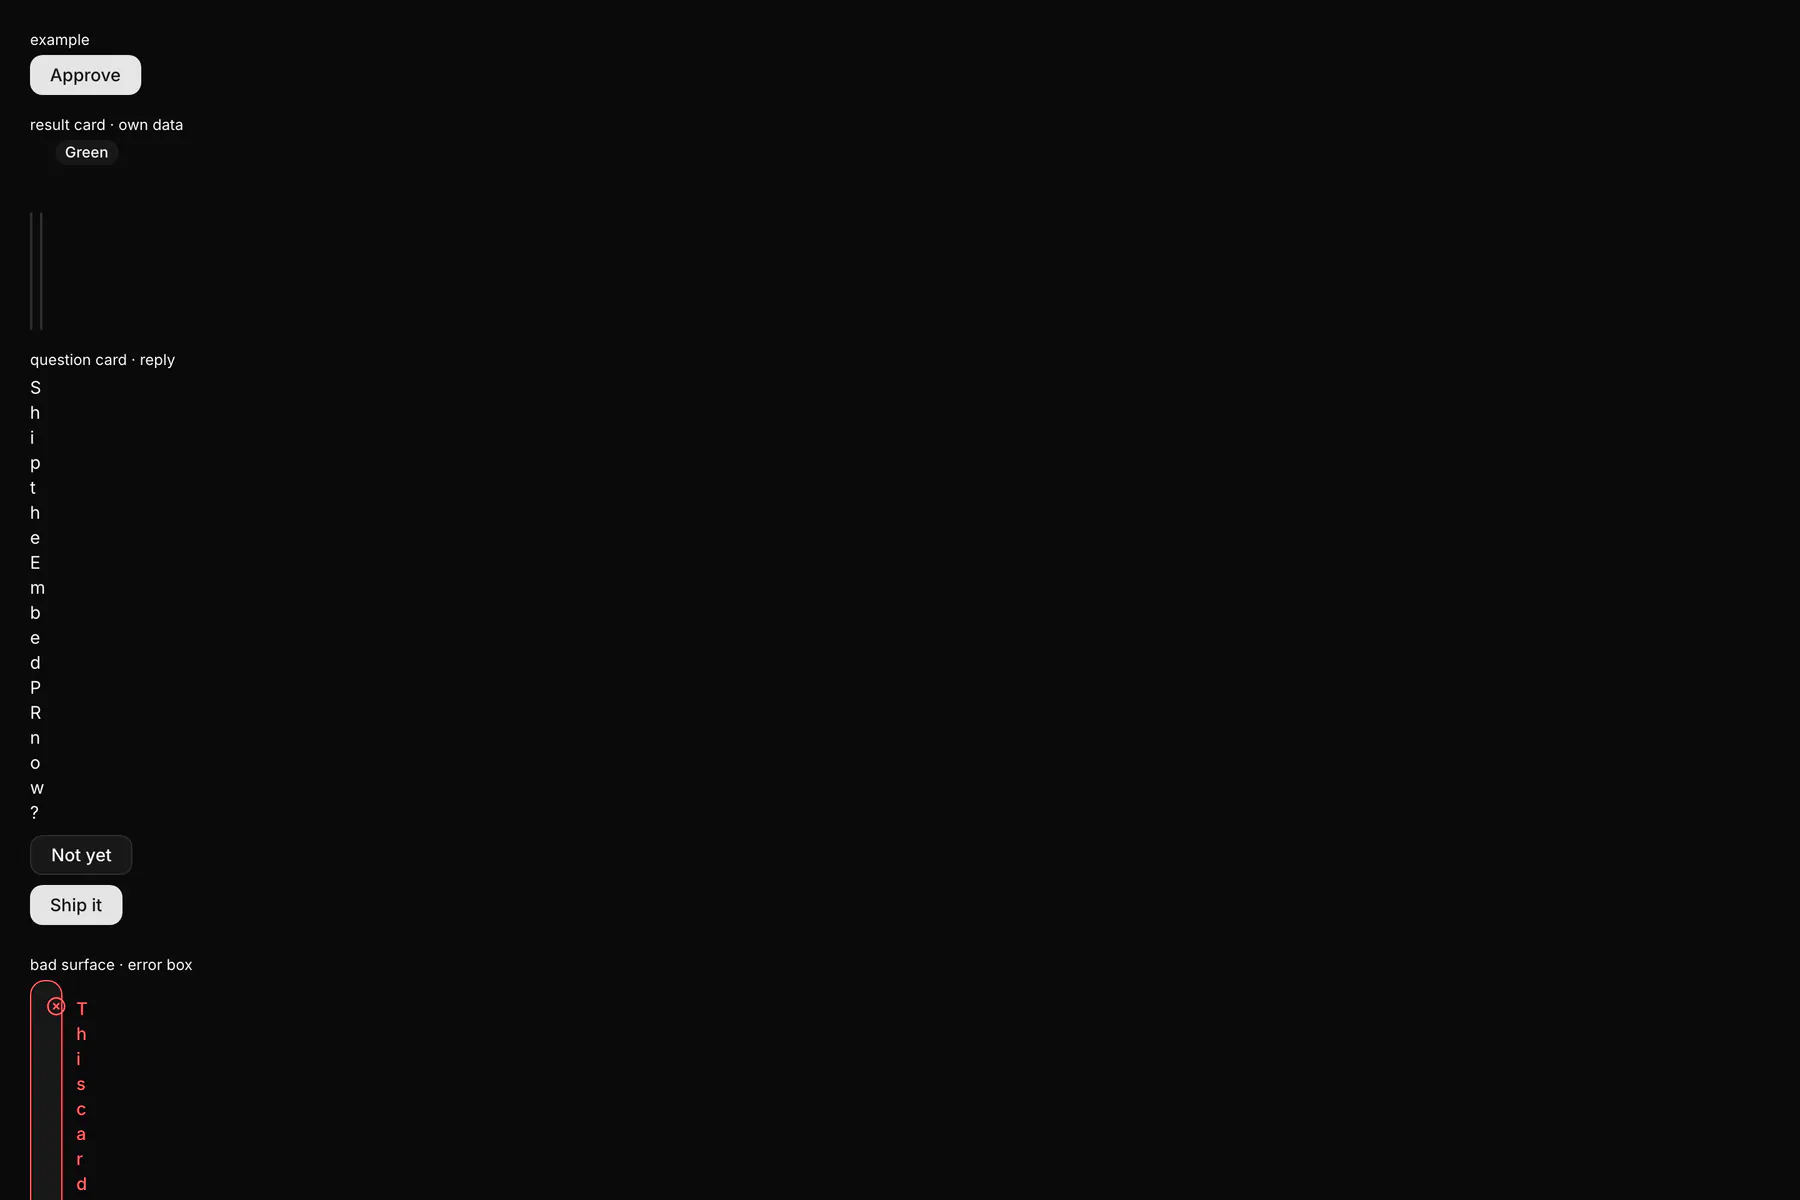
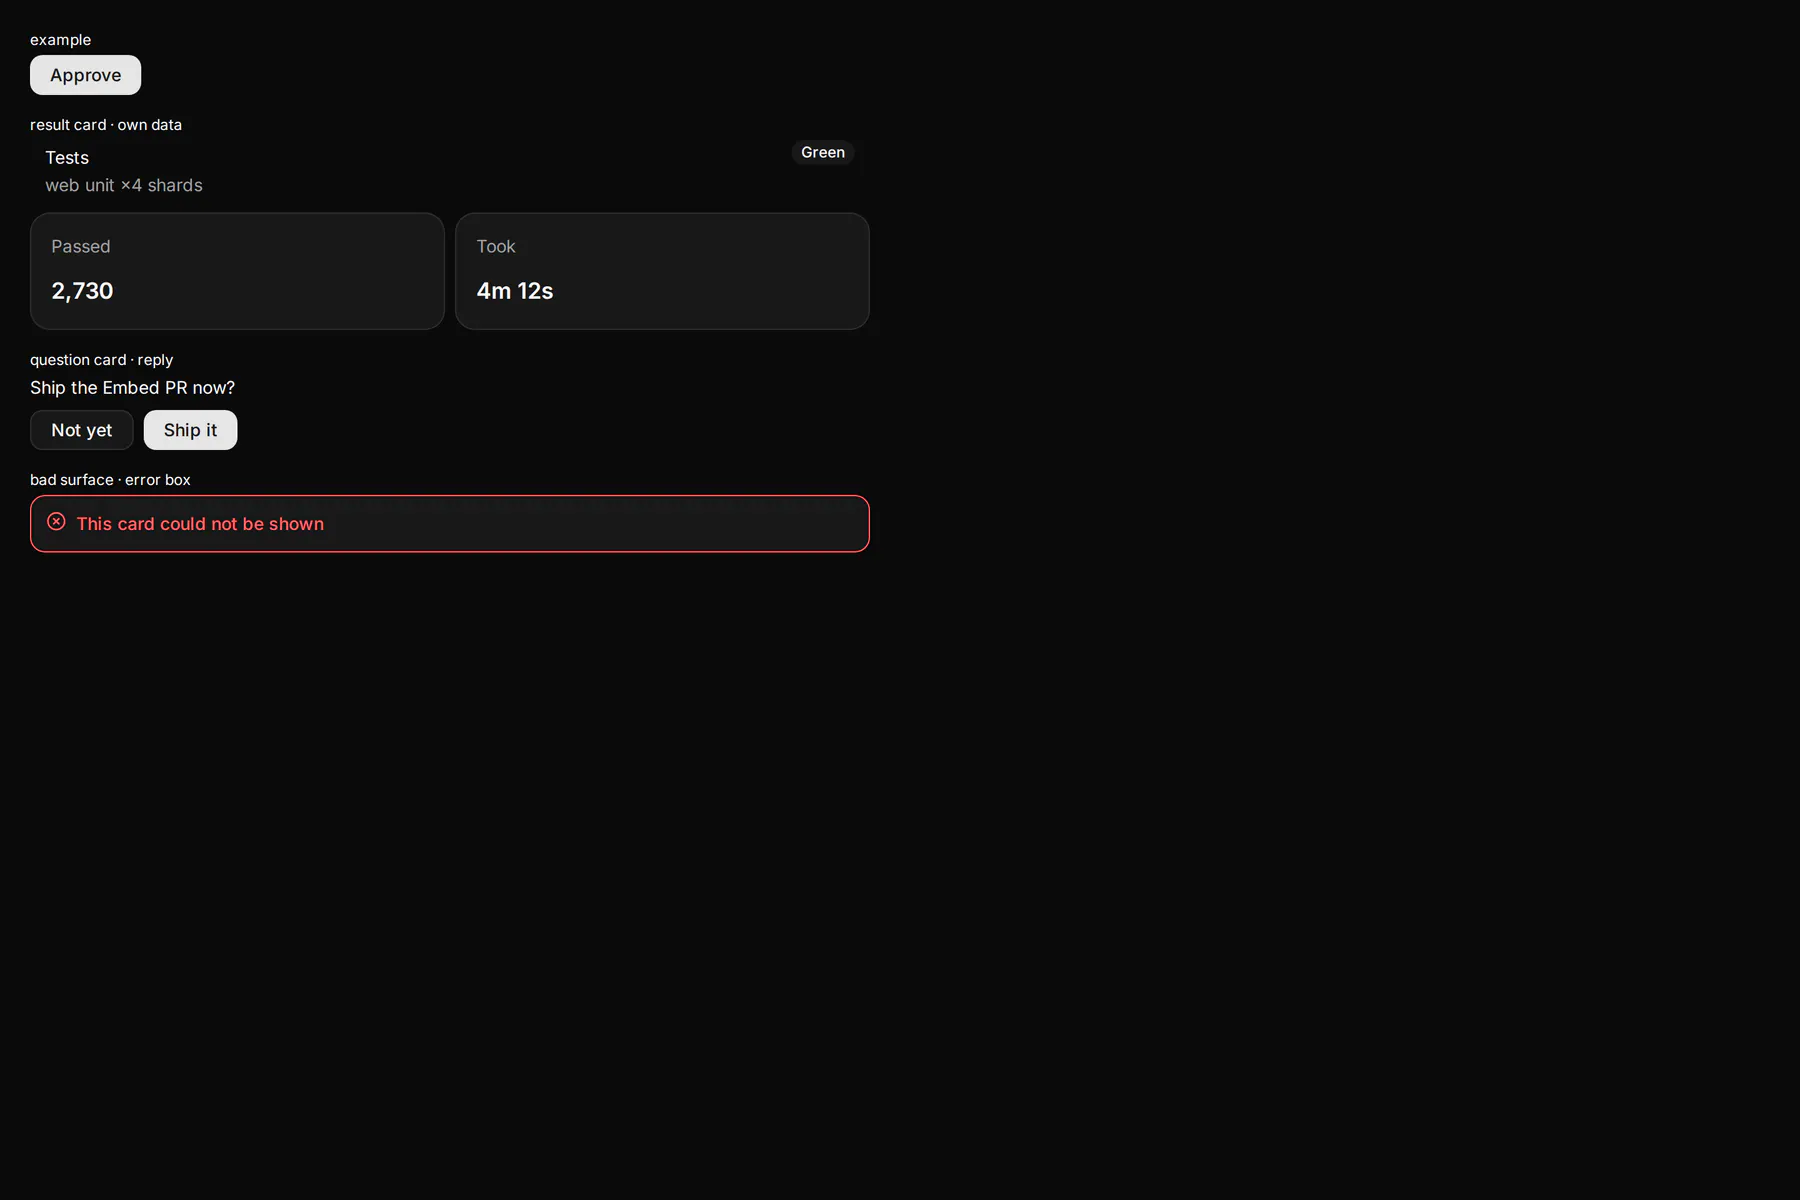
EXP-1769: genUI Embed (web): the nested surface fills the Embed instead of collapsing to 0 px
The Embed root is a row-flex .xui-el and its one child, the nested
.xui-surface, is an inline-size container with no intrinsic width, so
every card laid out at 0 px (one letter per line). base-css now lets it
fill the box (React + Solid share it). embed.json gains `layout` cases (an
Embed inside a column, aligned start, inside a Card at 390 px), replayed in
Chromium for React and Solid by exponential-ui-solid/browser/embed.test.ts.
Re-records shots/exponential-ui-embed/web.webp.

diff --git a/packages/exponential-ui-solid/browser/embed.test.ts b/packages/exponential-ui-solid/browser/embed.test.ts
@@ -1,0 +1,82 @@
+// #EXP-1769: embed.json's `layout` cases in headless Chromium, React (the
+// reference) and Solid: an Embed inside a column takes the column's width
+// and its nested surface FILLS it (the card's root spans the Embed within
+// 1 px), so its text paints on one line instead of one letter per line
+// (the row-flex Embed box around an inline-size container collapsed it to
+// 0 px).
+
+import { afterAll, beforeAll, describe, expect, it } from "vitest"
+import { join } from "node:path"
+import type { Browser } from "playwright"
+import fixture from "@exponential_app/eui/fixtures/embed.json"
+import { bunHarness, launchChromium, openPage, type RunningHarness } from "../../exponential-ui/conformance/browser-page"
+
+type Case = { name: string; width: number; root: unknown; fills: { embed: string; inner: string }[]; oneLine: string[] }
+type Box = { x: number; w: number; h: number; line: number }
+
+const packages = join(import.meta.dirname, `..`, `..`)
+let browser: Browser
+let react: RunningHarness
+let solid: RunningHarness
+
+beforeAll(async () => {
+  ;[react, solid] = await Promise.all([bunHarness(join(packages, `exponential-ui-react`, `harness`, `serve.ts`)).start(), bunHarness(join(packages, `exponential-ui-solid`, `harness`, `serve.ts`)).start()])
+  browser = await launchChromium()
+})
+
+afterAll(async () => {
+  await browser?.close()
+  await Promise.all([react?.stop(), solid?.stop()])
+})
+
+async function measure(h: RunningHarness, c: Case): Promise<Record<string, Box | null>> {
+  const page = await openPage(browser, h.baseUrl, { view: `tree`, tree: JSON.stringify(c.root), theme: `neutral`, mode: `light`, width: String(c.width) }, { width: c.width, height: 900 })
+  try {
+    await page.waitForSelector(`[data-xui-c="Embed"] .xui-surface [data-xui-id]`)
+    const ids = [...c.fills.flatMap((f) => [f.embed, `${f.embed}>${f.inner}`]), ...c.oneLine]
+    return await page.evaluate((ids) => {
+      const out: Record<string, { x: number; w: number; h: number; line: number } | null> = {}
+      for (const id of ids) {
+        const [outer, inner] = id.split(`>`)
+        const sel = inner ? `[data-xui-id="${outer}"] .xui-surface [data-xui-id="${inner}"]` : `[data-xui-c="Embed"] .xui-surface [data-xui-id="${outer}"], [data-xui-id="${outer}"]`
+        const el = document.querySelector(sel) as HTMLElement | null
+        if (!el) {
+          out[id] = null
+          continue
+        }
+        const r = el.getBoundingClientRect()
+        out[id] = { x: r.x, w: r.width, h: r.height, line: parseFloat(getComputedStyle(el).lineHeight) }
+      }
+      return out
+    }, ids)
+  } finally {
+    await page.context().close()
+  }
+}
+
+describe(`embed.json layout (#EXP-1769)`, () => {
+  for (const c of fixture.layout as Case[]) {
+    for (const [renderer, h] of [[`react`, () => react], [`solid`, () => solid]] as const) {
+      it(`${renderer}: ${c.name}`, async () => {
+        const boxes = await measure(h(), c)
+        const bad: string[] = []
+        for (const f of c.fills) {
+          const outer = boxes[f.embed]
+          const inner = boxes[`${f.embed}>${f.inner}`]
+          if (!outer || !inner) {
+            bad.push(`${f.embed}/${f.inner}: missing`)
+            continue
+          }
+          if (outer.w < 100) bad.push(`${f.embed}: Embed ${outer.w.toFixed(1)} px wide`)
+          if (Math.abs(inner.x - outer.x) > 1 || Math.abs(inner.w - outer.w) > 1) bad.push(`${f.inner}: x ${inner.x.toFixed(1)} w ${inner.w.toFixed(1)}, Embed x ${outer.x.toFixed(1)} w ${outer.w.toFixed(1)}`)
+        }
+        for (const id of c.oneLine) {
+          const t = boxes[id]
+          if (!t) bad.push(`${id}: missing`)
+          else if (t.h >= t.line * 1.5) bad.push(`${id}: ${t.h.toFixed(1)} px tall (line ${t.line} px)`)
+        }
+        expect(bad).toEqual([])
+      })
+    }
+  }
+})

diff --git a/packages/exponential-ui/src/web/base-css.ts b/packages/exponential-ui/src/web/base-css.ts
@@ -69,6 +69,7 @@ ${ROUND2_CSS}
 .xui-surface{display:block;position:relative;font-family:var(--xui-font-sans);color:var(--xui-color-foreground);font-size:var(--xui-type-size-sm);line-height:var(--xui-type-lineHeight-sm);-webkit-font-smoothing:antialiased}
 .xui-surface *{box-sizing:border-box}
 .xui-container{container-type:inline-size;container-name:xui;width:100%;position:relative}
+[data-xui-c="Embed"].xui-el>.xui-surface{flex:1 1 0%;min-width:0}
 :where([data-xui-part]){border:0 solid transparent}
 .xui-el{box-sizing:border-box;display:flex;flex-direction:row;position:relative;margin:0;padding:0;border:0 solid transparent;min-width:auto;min-height:auto;font:inherit;color:inherit;background:transparent;text-align:start;text-decoration:none;outline:none;appearance:none;-webkit-appearance:none}
 button:where([data-xui-part],.xui-calendar-nav,.xui-table-sort,.xui-carousel-nav){margin:0;padding:0;border:0 solid transparent;background:transparent;color:inherit;font:inherit;appearance:none;-webkit-appearance:none}

diff --git a/packages/exponential-ui/src/web/embed-host.ts b/packages/exponential-ui/src/web/embed-host.ts
@@ -29,7 +29,11 @@ export function embedHost<H extends AnyHostPlugin>(host: H, forward: (event: Sur
 }
 
 /** The Embed root's own style: the full width of its slot (a column
- *  Stack's `align` never shrinks it) unless the author placed it. */
+ *  Stack's `align` never shrinks it) unless the author placed it. Its one
+ *  child, the nested `.xui-surface`, fills it through base-css
+ *  (`[data-xui-c="Embed"].xui-el>.xui-surface`, #EXP-1769): the root is a
+ *  row flex box and the surface's inline-size container has no intrinsic
+ *  width, so without that rule the card lays out at 0 px. */
 export function embedBoxStyle(nodeStyle: Record<string, unknown> | undefined): { alignSelf: `stretch` } | undefined {
   return nodeStyle && nodeStyle.alignSelf !== undefined ? undefined : { alignSelf: `stretch` }
 }
